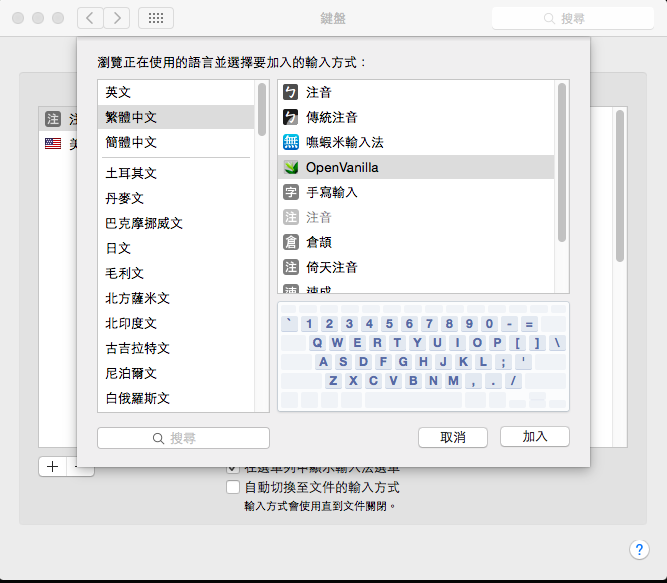
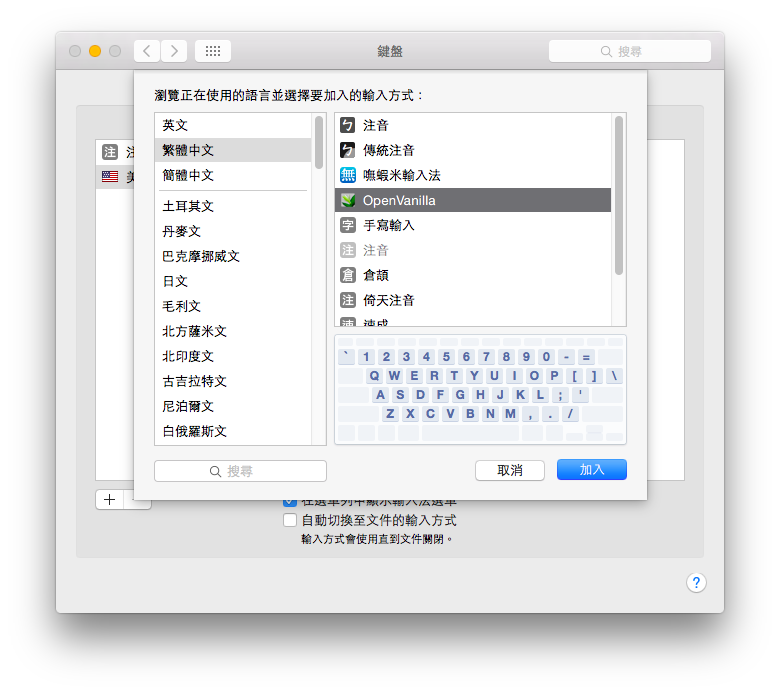
add screens

diff --git a/README.md b/README.md
@@ -3,4 +3,11 @@
 ## 安裝
     curl https://raw.githubusercontent.com/rwu823/liu/master/install.sh | sh
 
-That's all. Enjoy !!
+## 新增輸入法
+![](https://raw.githubusercontent.com/rwu823/liu/master/screens/1.png)
+![](https://raw.githubusercontent.com/rwu823/liu/master/screens/2.png)
+
+## That's all. Enjoy !!
+
+## 感謝
+[香草輸入法](https://openvanilla.org/)
